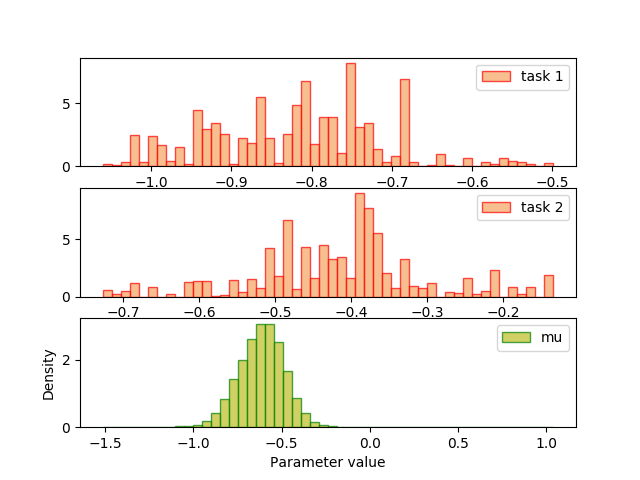
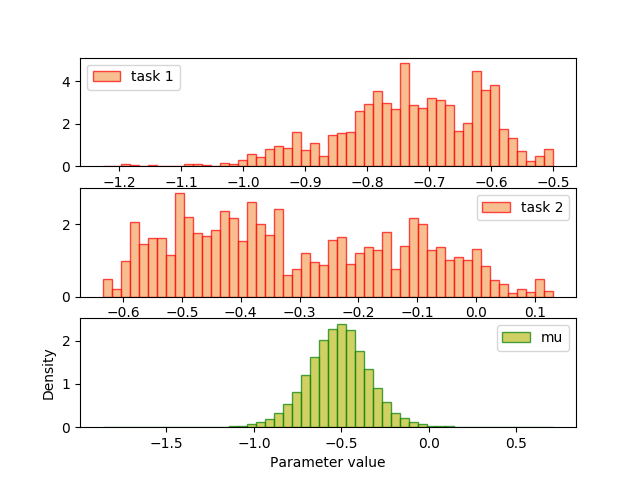
plots

diff --git a/mcmc-transfer-learning/experiment_network.py b/mcmc-transfer-learning/experiment_network.py
@@ -121,7 +121,7 @@ class Experiment(object):
         self.sigma_mu_sq = 25
         self.sigma_sq = 1
         self.tau_sq = 0.1
-        self.s_sq = 0.05
+        self.step_size = 0.02
         self.delta = np.random.normal(self.mu, np.sqrt(self.sigma_sq), (self.num_tasks, self.w_size))
         self.fx = [self.neural_network.generate_output(self.train_data[task], self.delta[task]) for task in range(self.num_tasks)]
         self.y = [self.train_data[task][:, self.topology[0]: self.topology[0]+self.topology[2]] for task in range(self.num_tasks)]
@@ -185,7 +185,7 @@ class Experiment(object):
         file = open(self.joint_file, 'w')
         for sample in range(1, self.num_samples):
             # Propose delta_1 and delta_2
-            delta_p = delta_c + np.random.normal(0, self.s_sq, (self.num_tasks, self.w_size))
+            delta_p = delta_c + np.random.normal(0, self.step_size, (self.num_tasks, self.w_size))
             # Evaluate function f
             fx_p = [self.neural_network.generate_output(self.train_data[task], delta_p[task]) for task in range(self.num_tasks)]
             # get joint acceptance ratio value
@@ -246,8 +246,8 @@ class Experiment(object):
 
 
 if __name__ == '__main__':
-    num_samples = 20000
-    topology = [4, 25, 1]
+    num_samples = 25000
+    topology = [4, 15, 1]
     train_data = []
     test_data = []
     index = 3
@@ -256,6 +256,9 @@ if __name__ == '__main__':
 
     test_data.append(np.genfromtxt('../datasets/synthetic_data/target_test.csv', delimiter=','))
     test_data.append(np.genfromtxt('../datasets/synthetic_data/target_test.csv', delimiter=','))
+
+
+
 
     random.seed(time.time())
 
